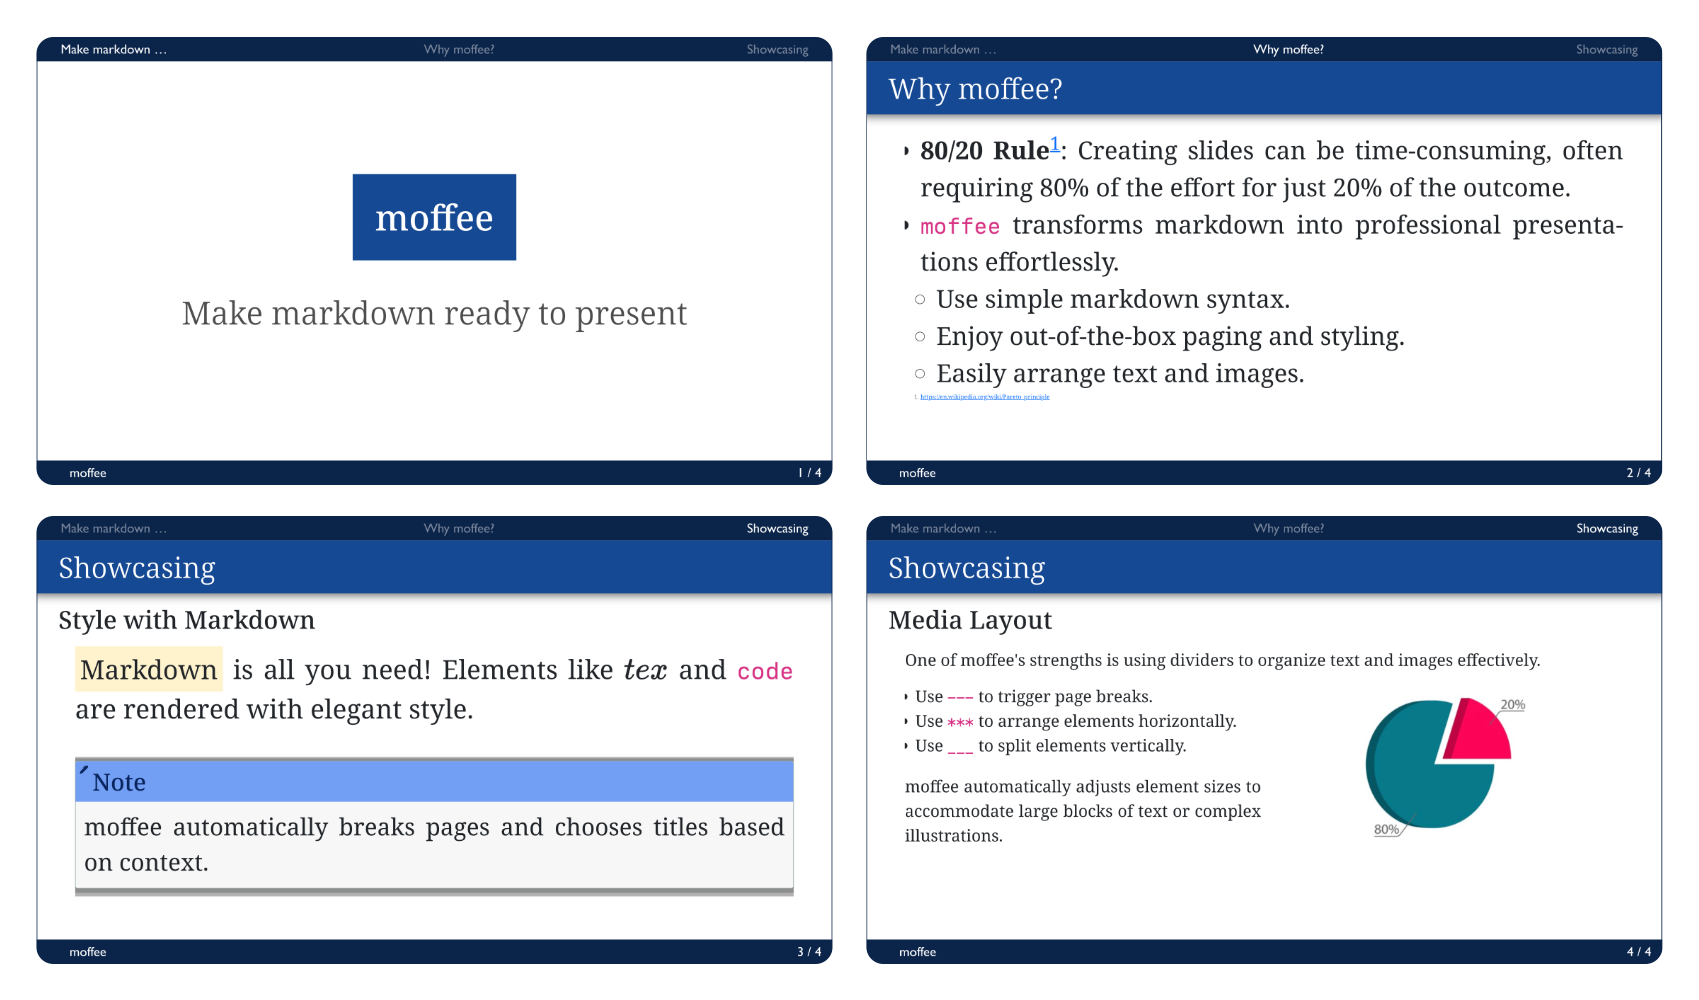
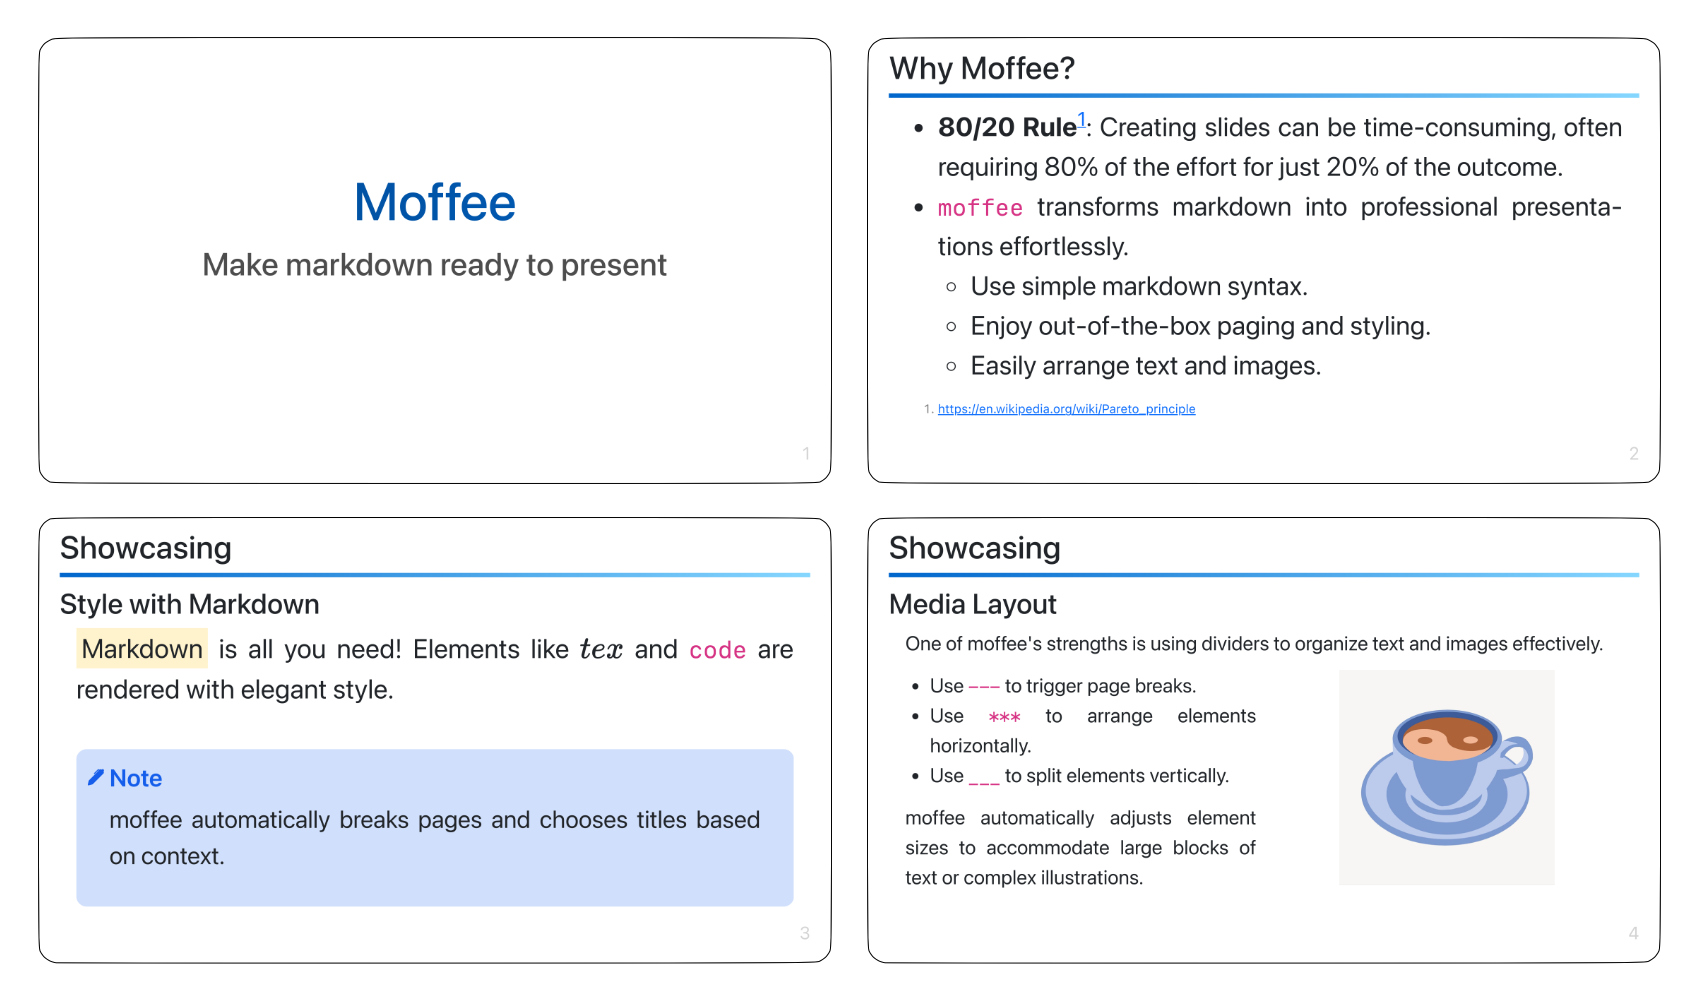
Add theme showcase

diff --git a/moffee/templates/default/css/styles.css b/moffee/templates/default/css/styles.css
@@ -101,7 +101,6 @@ h3 {
 
 .chunk {
     display: flex;
-    justify-content: space-between;
     width: 100%;
 }
 
@@ -111,6 +110,7 @@ h3 {
 
 .chunk-horizontal {
     flex-direction: row;
+    justify-content: space-between;
     gap: 20px;
 }
 
@@ -124,6 +124,10 @@ h3 {
     hyphens: auto;
     max-width: 100%;
     max-height: 100%;
+}
+
+.chunk-paragraph > p:has(img) {
+    height: 100%;
 }
 
 .chunk-paragraph img {
@@ -142,7 +146,6 @@ h3 {
     flex-grow: 1;
 }
 
-enlarge img when scale ratio is high
 .auto-scaled.s7 img,
 .auto-scaled.s6 img,
 .auto-scaled.s5 img,
@@ -161,7 +164,6 @@ enlarge img when scale ratio is high
 /* Admonition Styles */
 div.admonition {
     font-size: 0.9em;
-    margin: 1em 0;
     border-radius: 10px;
     padding: 1rem 2rem;
     background-color: var(--color-admonition-bg);

diff --git a/README.md b/README.md
@@ -1,6 +1,6 @@
 <p align="center">
   <a href="https://github.com/BMPixel/moffee">
-    <img src="https://github.com/user-attachments/assets/8fcdf93f-3861-468d-a819-874ee554b5d3" alt="moffee logo" width="150">
+    <img src="https://raw.githubusercontent.com/BMPixel/moffee/main/docs/images/logo.png" alt="moffee logo" width="150">
   </a>
 </p>
 <h1 align="center">
@@ -80,8 +80,33 @@ moffee automatically adjusts element sizes to accommodate large blocks of text o
 </details>
 
 <p align="center">
-  <img src="https://github.com/user-attachments/assets/be2f7706-0b0a-415e-a207-78c43596d8c4" alt="moffee example PDF">
+  <img src="https://raw.githubusercontent.com/BMPixel/moffee/main/docs/images/moffee-example.png" alt="moffee example PDF">
 </p>
+
+Or you can use other built-in themes:
+
+<table>
+  <tr>
+    <td align="center"><strong>default</strong></td>
+    <td align="center"><strong>beam</strong></td>
+    <td align="center"><strong>robo</strong></td>
+  </tr>
+  <tr>
+    <td align="center"><img src="https://raw.githubusercontent.com/BMPixel/moffee/main/docs/images/default.png" alt="default theme" /></td>
+    <td align="center"><img src="https://raw.githubusercontent.com/BMPixel/moffee/main/docs/images/beam.png" alt="beam theme" /></td>
+    <td align="center"><img src="https://raw.githubusercontent.com/BMPixel/moffee/main/docs/images/robo.png" alt="robo theme" /></td>
+  </tr>
+  <tr>
+    <td align="center"><strong>blue</strong></td>
+    <td align="center"><strong>gaia</strong></td>
+    <td></td>
+  </tr>
+  <tr>
+    <td align="center"><img src="https://raw.githubusercontent.com/BMPixel/moffee/main/docs/images/blue.png" alt="blue theme" /></td>
+    <td align="center"><img src="https://raw.githubusercontent.com/BMPixel/moffee/main/docs/images/gaia.png" alt="gaia theme" /></td>
+    <td></td>
+  </tr>
+</table>
 
 ## Installation
 
